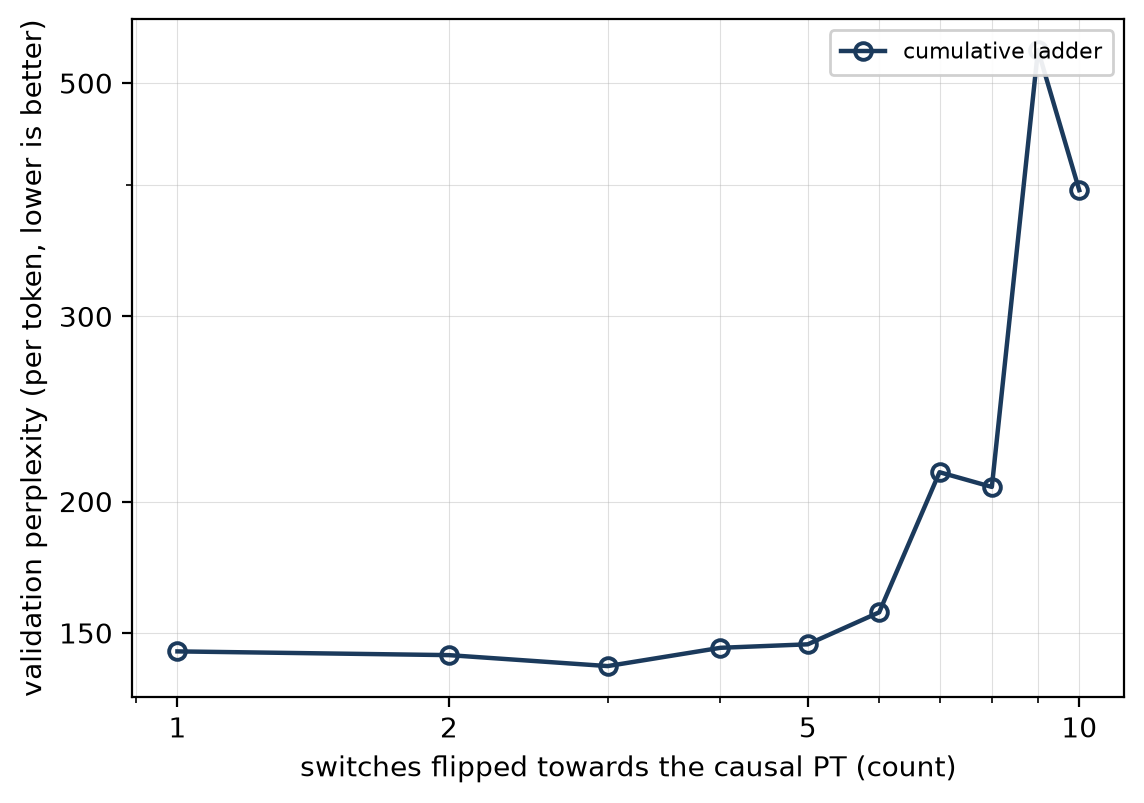
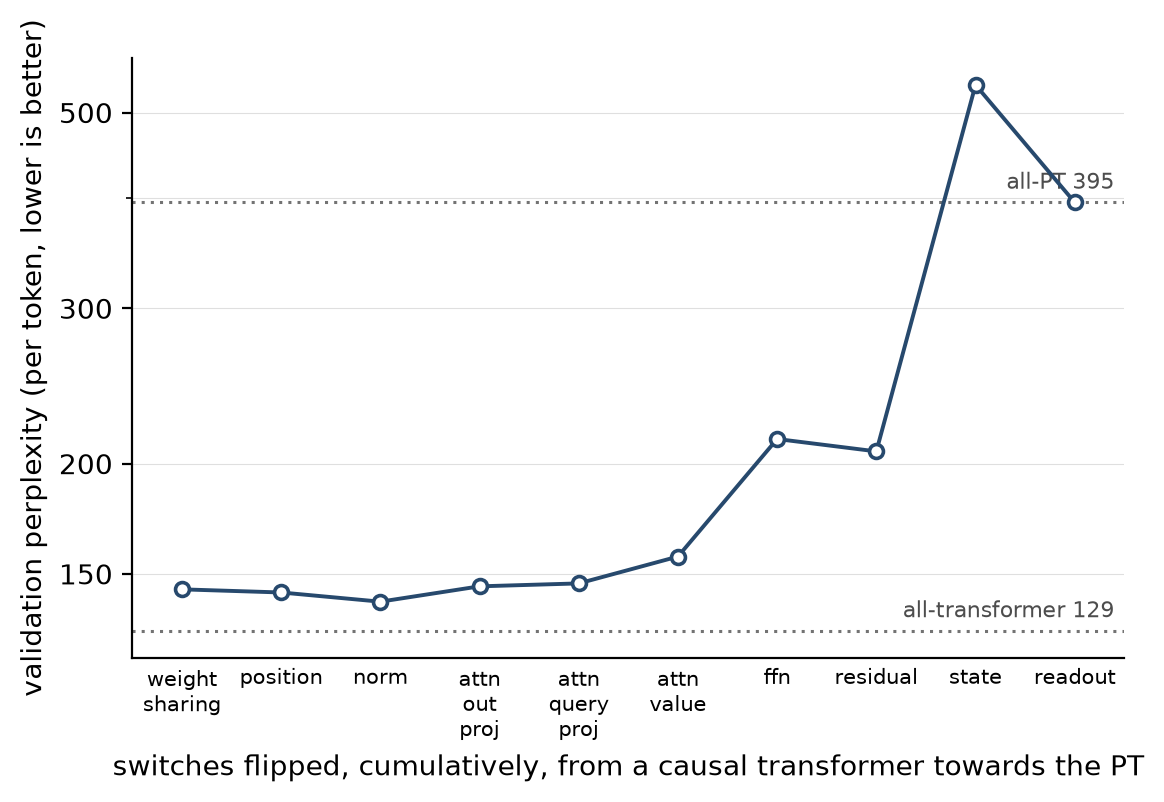
v1.17.0 [add]: the switch-ladder figure, redrawn and finally in the paper
It was being generated on every report run and included nowhere -- and it was drawn with the
scaling helper, which forces a logarithmic x-axis. A count of switches from 1 to 10 on a log
axis puts rungs 1 and 2 a third of the plot apart and rungs 9 and 10 almost on top of each
other, so the shape the figure exists to show was distorted, and the spike at rung 9 ran off
the top of the axes.

src.analysis.plot_ladder draws it properly: linear in the rung index, the name of the switch
flipped under each tick so the reader does not have to hold the order in their head, a
logarithmic y-axis because the ladder spans 130 to 700, and both tuned endpoints as dotted
references so the cliff can be read against the span it is a fraction of.

The caption carries no numbers -- three rungs are still missing their top learning rate, so the
figure will move -- and points at the table instead. The section's TODO narrows to that and the
S2 column.

diff --git a/paper/sections/04_experiments.tex b/paper/sections/04_experiments.tex
@@ -448,8 +448,22 @@ $\sqrt{d_{\text{head}}}$ --- the mis-calibration of \Cref{sec:temperature}, arri
 transformer side. The ladder has no temperature switch, so flipping the state alone changes the
 geometry without changing the temperature that geometry requires, and the interaction between
 two differences lands on one of them. The real decoder, which is simplex-constrained and has a
-temperature suited to it, reaches $206.1$. \TODO{the cumulative ladder and the S2 column at the
-full learning-rate sweep}
+temperature suited to it, reaches $\LadderTopVal$. \Cref{fig:ladder} draws the cumulative
+ladder, where that interaction is visible as a spike the last flip partly undoes.
+\TODO{the S2 column and the three ladder rungs still missing their top learning rate.}
+
+\begin{figure}[t]
+\centering
+\includegraphics[width=\columnwidth]{figures/fig_switch_ladder.png}
+\caption{The cumulative ladder: each rung flips one further difference from a causal
+transformer towards the causal PT, in the order given, and keeps every earlier one. Each point
+is the best of the learning rates run for that rung, and the two dotted references are the
+tuned endpoints. The shape is the finding --- six switches that cost nothing between them, a
+step at the feed-forward block, and a spike at the simplex state that the readout flip then
+partly recovers, which is what a two-difference interaction looks like when a ladder can only
+flip one at a time. Values are in \Cref{tab:switches}.}
+\label{fig:ladder}
+\end{figure}
 
 \paragraph{Exact vs.\ mean-field readout.}
 \label{sec:exp3}

diff --git a/paper/figures/table_globalhead.tex b/paper/figures/table_globalhead.tex
@@ -14,5 +14,6 @@ $d$ & $m$ & init sd & in $L_2$ & dist. & $n$ & val ppl & $H(Q_g)/\max$ \\
 64 & 64 & 0.02 & yes & normal & 1 & 233.3 $\pm$ 0.0 & 1.000 \\
 64 & 64 & 0.1 & no & normal & 1 & 227.7 $\pm$ 0.0 & 0.938 \\
 64 & 64 & 0.1 & yes & normal & 1 & 235.2 $\pm$ 0.0 & 1.000 \\
+64 & 64 & 0.5 & yes & normal & 1 & 240.6 $\pm$ 0.0 & 0.999 \\
 \bottomrule
 \end{tabular}
